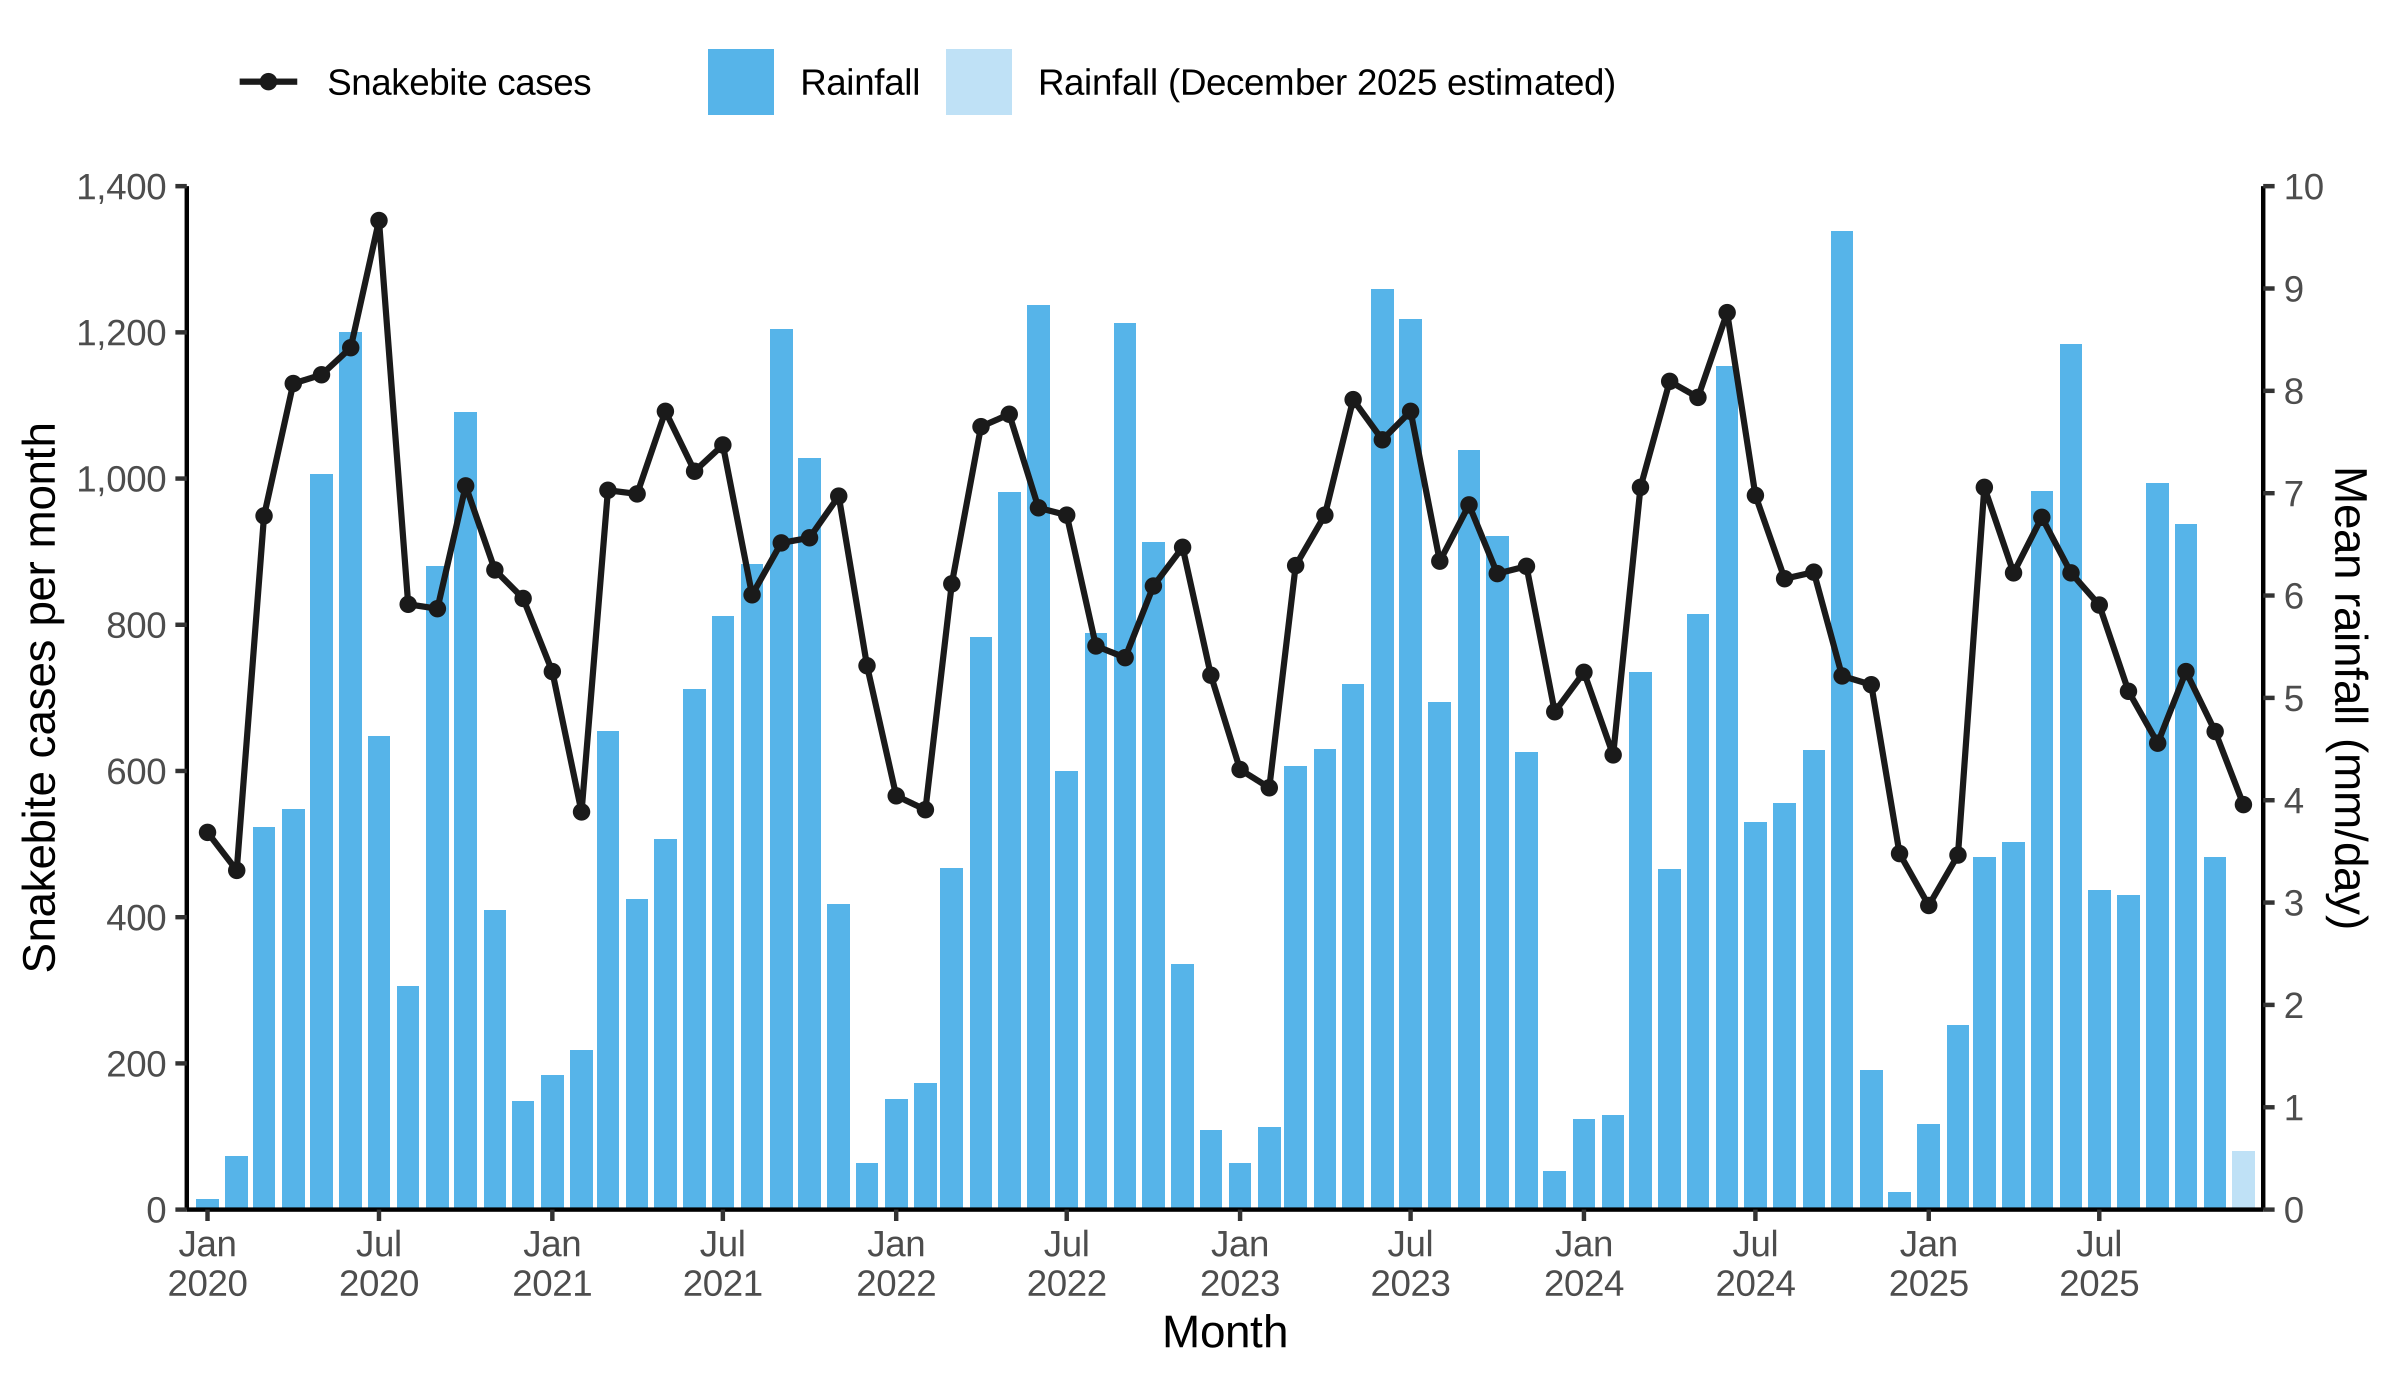
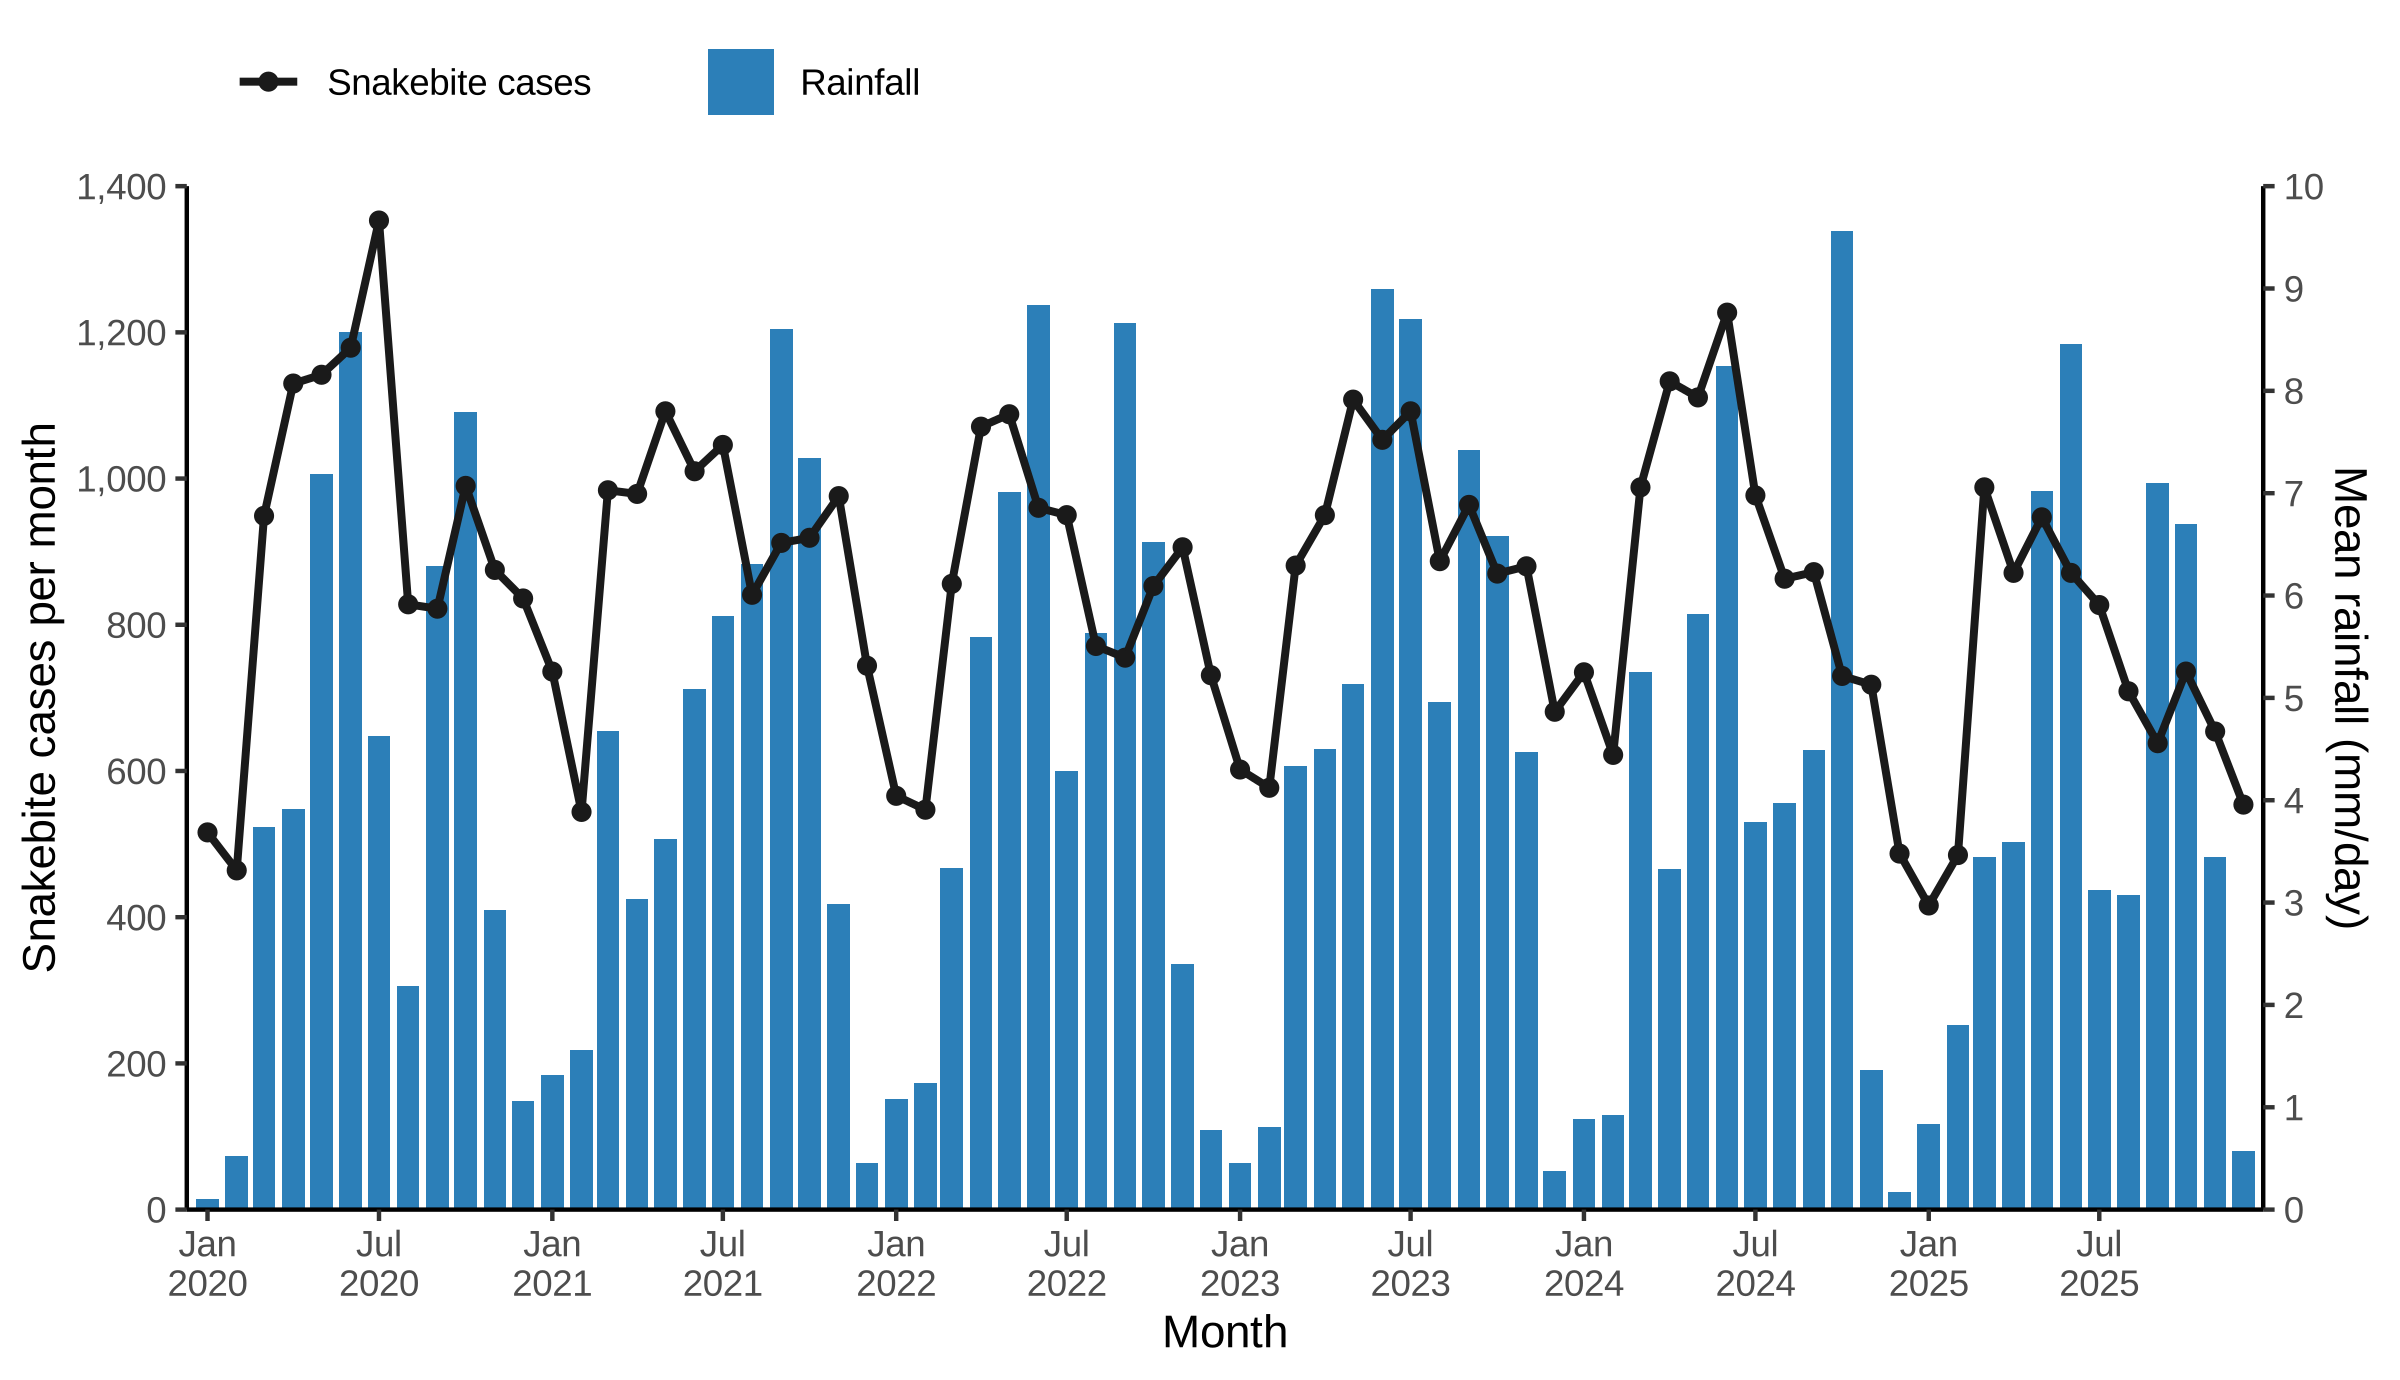
Fig 2: single rainfall colour, deeper blue, thicker case line; no estimated-rainfall key
Claude-Session: https://claude.ai/code/session_01EpHxzHnx9eTUVm7jcAJhhp

Changed region(s): [[0.0938, 0.1558, 0.9375, 0.8725], [0.375, 0.0312, 0.6562, 0.0935], [0.2812, 0.0312, 0.3438, 0.0935]]

diff --git a/MANUSCRIPT_DRAFT.md b/MANUSCRIPT_DRAFT.md
@@ -348,7 +348,7 @@ Monthly snakebite cases across Ghana ranged from 416 (January 2025) to 1,353 (Ju
 
 ![Fig 2. Monthly snakebite cases and rainfall, Ghana, January 2020 to December 2025.](figures/Fig2.png)
 
-**Fig 2. Monthly snakebite cases and rainfall, Ghana, January 2020 to December 2025.** The line shows the number of snakebite cases reported each month across all districts (left axis), and the bars the mean rainfall across districts in each month (right axis). The lighter bar for December 2025 marks estimated rainfall (Section 2.2). Case data from DHIMS-2; rainfall data from NASA POWER [[18](https://power.larc.nasa.gov/docs/methodology/meteorology/)]; figure drawn in R with ggplot2 [[56](https://ggplot2.tidyverse.org)].
+**Fig 2. Monthly snakebite cases and rainfall, Ghana, January 2020 to December 2025.** The line shows the number of snakebite cases reported each month across all districts (left axis), and the bars the mean rainfall across districts in each month (right axis). Rainfall for December 2025 was estimated (Section 2.2). Case data from DHIMS-2; rainfall data from NASA POWER [[18](https://power.larc.nasa.gov/docs/methodology/meteorology/)]; figure drawn in R with ggplot2 [[56](https://ggplot2.tidyverse.org)].
 
 **Table 1. Snakebite cases and incidence, Ghana, 2020–2025**
 
